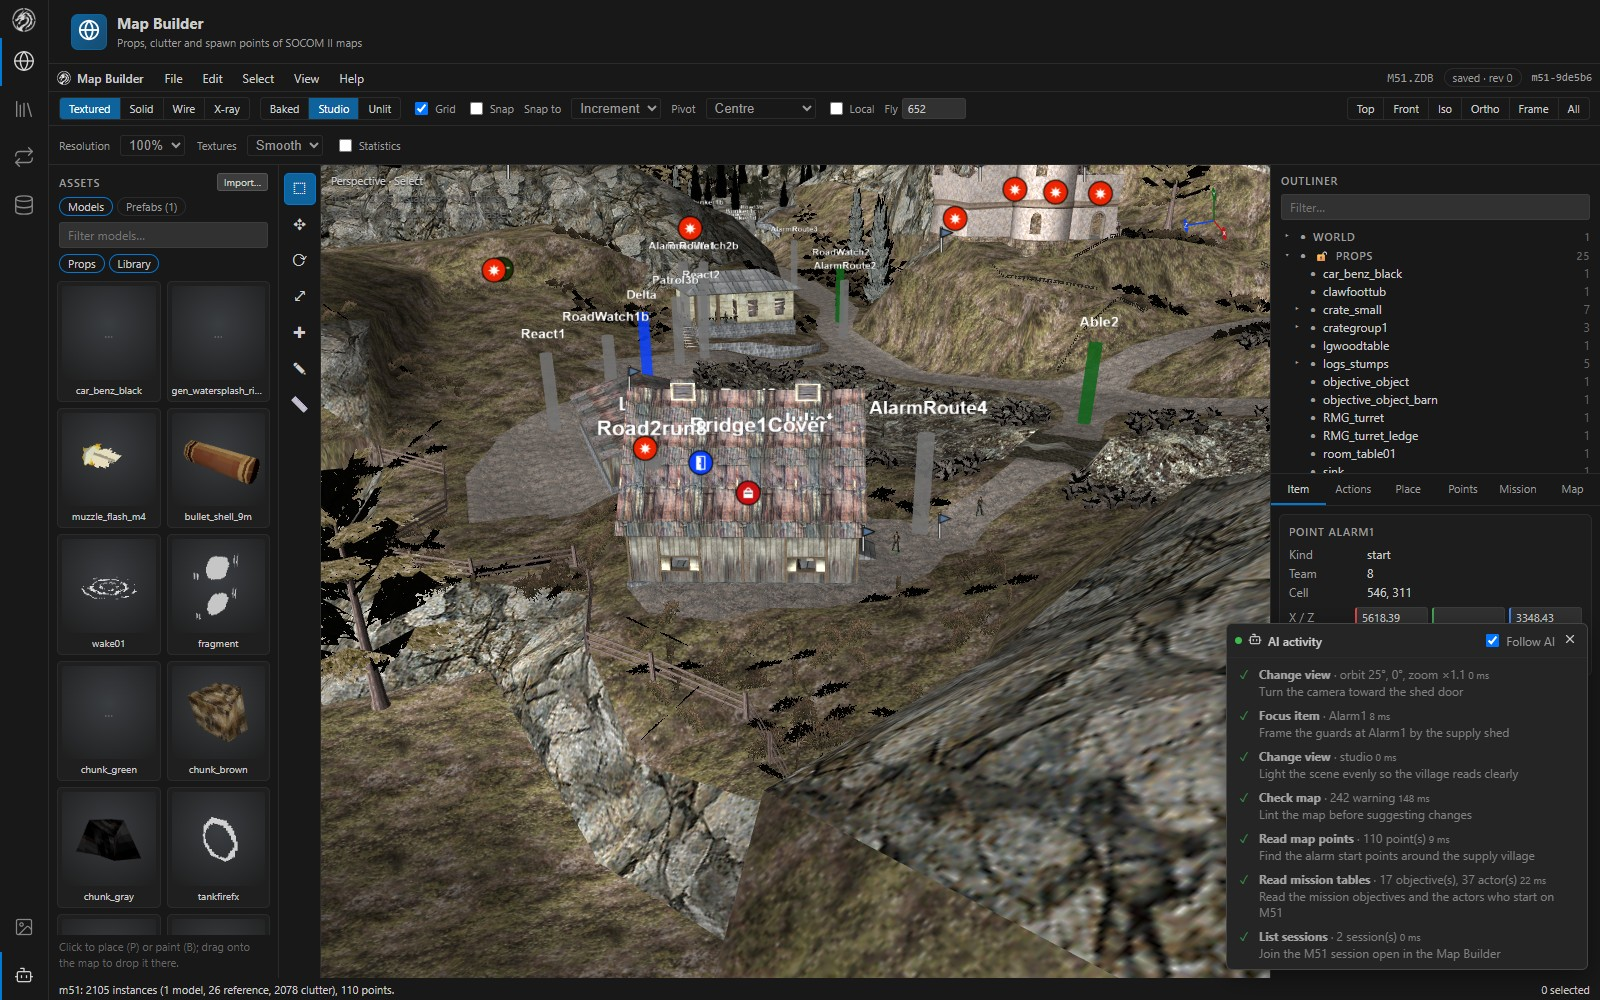
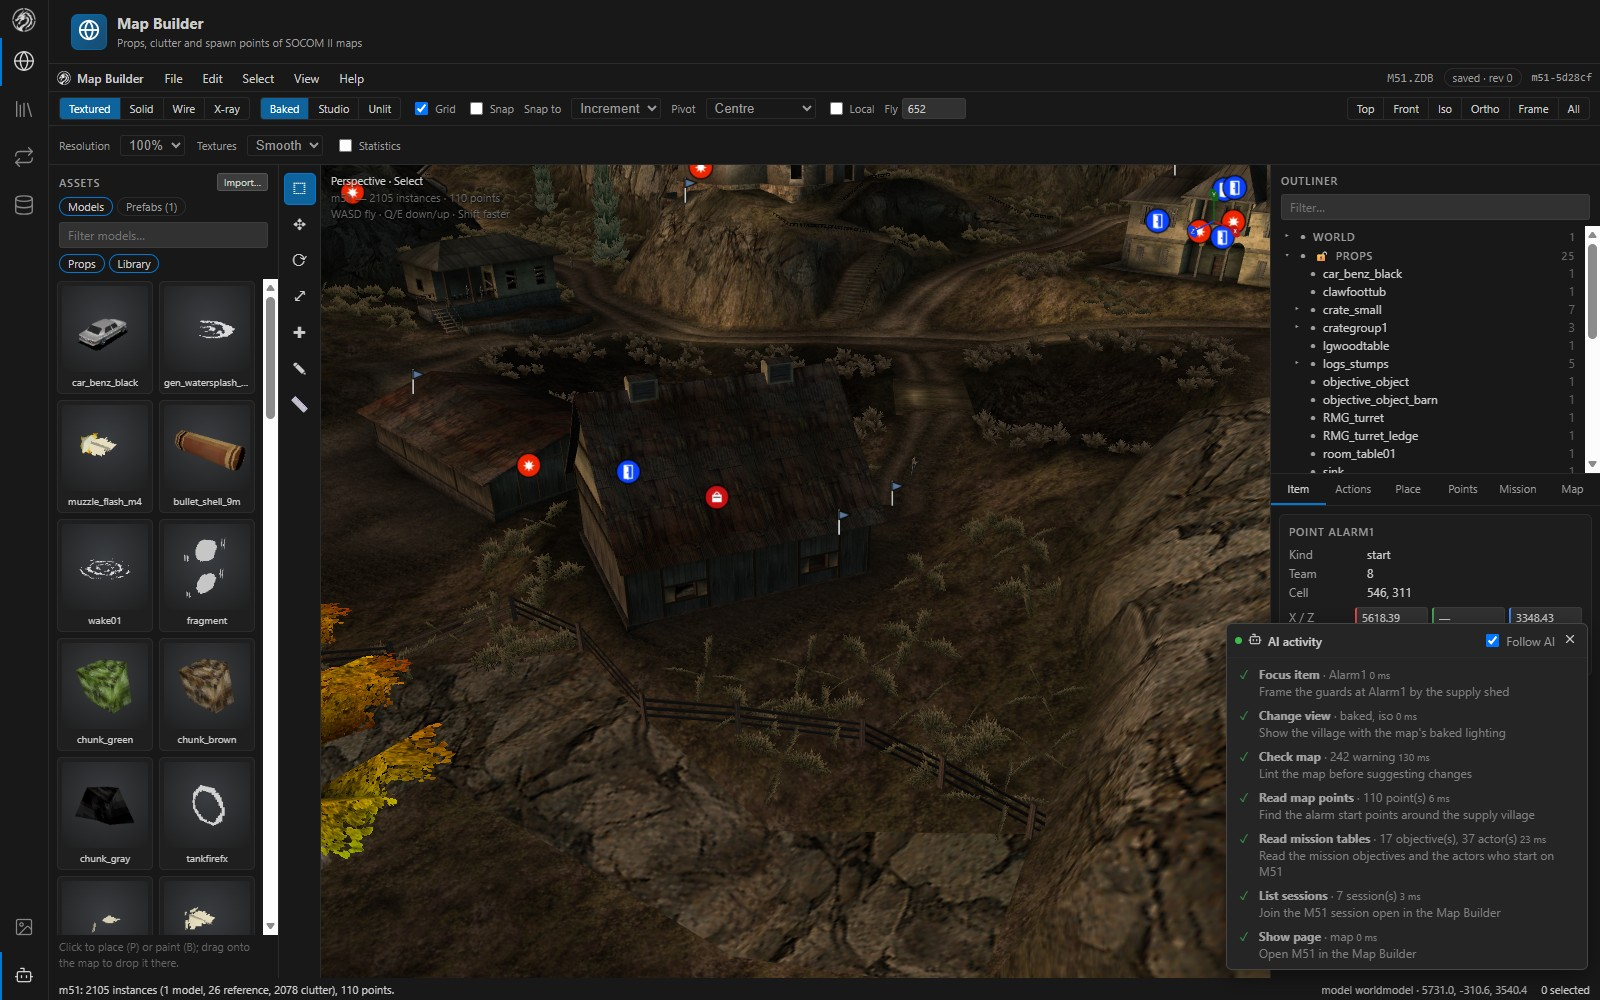
Retake README map screenshots with baked lighting and show the other games
The Map Builder screenshots were taken in Studio lighting; retake them on
M51 with the map's baked lighting. Add an Other games section with a
support table and map shots from Battlefront (Mos Eisley), Combined
Assault and Fireteam Bravo 2, and bring the tagline, feature table and
status notes up to date. List SOCOM 1 in Game support.

diff --git a/README.md b/README.md
@@ -5,7 +5,8 @@
 <h1 align="center">SOCOM Map Builder</h1>
 
 <p align="center">
-  A map, model, texture and animation editor for SOCOM U.S. Navy SEALs II on the PlayStation 2.
+  A map, model, texture and animation editor for SOCOM U.S. Navy SEALs II on the PlayStation 2,<br>
+  with map and model support for SOCOM 1, Combined Assault, Fireteam Bravo 2, GTA: San Andreas and Star Wars: Battlefront.
 </p>
 
 <p align="center">
@@ -19,11 +20,11 @@
 
 Open a SOCOM II package and work across the whole map: its world, props, clutter, characters, weapons, textures, palettes, animations, actions and mission tables. Every page shares one in-memory session per package, so edits made anywhere are undone together and saved together, as a copy of the `.ZDB` / `.CDB` or as a memory-card pack for `mc0:`. A built-in MCP server lets AI assistants read and edit the same sessions while you watch.
 
-<img src="docs/screenshots/map-builder.jpg" alt="Map Builder showing M51 with action icons, objective flags, the HUD minimap and the Mission tab" width="850">
+<img src="docs/screenshots/map-builder.jpg" alt="Map Builder showing M51 in its baked lighting with action icons, objective flags, the HUD minimap and the Mission tab" width="850">
 
 > **Get started:** build the web client, run the server and open `http://127.0.0.1:8770`. See [Getting started](#getting-started).
 >
-> **Status** — SOCOM II is the primary, tested target. Combined Assault supports editing points, actor starts and headings, valves, allowed weapon slots and world placements. Edits save to an archive copy and reopen in the editor. In-game verification is pending. The Model Editor opens the PS2 GTA: San Andreas disc, edits native DFF models, and saves DFF or IMG copies; the Map Builder shows its map area by area and moves its placements. Star Wars: Battlefront models, textures and maps (with command posts, paths and regions) open, and map placements can be moved and saved to `.LVL` or disc copies; its models convert to SOCOM II. See [Game support](docs/game-support.md).
+> **Status** — SOCOM II is the primary, tested target. Five more games open in the same editors, each with map edits that save to copies of their own files or a patched disc image; see [Other games](#other-games) and [Game support](docs/game-support.md).
 
 ## Contents
 
@@ -35,6 +36,7 @@ Open a SOCOM II package and work across the whole map: its world, props, clutter
   - [Animation Editor](#animation-editor)
   - [Asset Viewer](#asset-viewer)
   - [AI-assisted editing](#ai-assisted-editing-with-mcp)
+- [Other games](#other-games)
 - [In game](#in-game)
 - [Getting started](#getting-started)
 - [Documentation](#documentation)
@@ -52,7 +54,9 @@ Open a SOCOM II package and work across the whole map: its world, props, clutter
 | **Textures and palettes** | Replace or create textures and palettes from images, import them from other packages, export PNG |
 | **Animation Editor** | Play and edit character clips, key bones, and fire mounted weapons with their muzzle effects |
 | **Asset Viewer** | Browse a whole disc down to archive records; preview every retail file type, from models and textures to sounds, movies and memory-card icons; edit records in place |
-| **Conversion** | SOCOM II models to SOCOM 3 / Combined Assault; Combined Assault and GTA: San Andreas models to SOCOM II |
+| **Other games** | SOCOM 1, Combined Assault, Fireteam Bravo 2 (PSP), GTA: San Andreas and Star Wars: Battlefront maps drawn and edited in the Map Builder |
+| **Conversion** | SOCOM II models to SOCOM 3 / Combined Assault; Combined Assault, GTA: San Andreas, Battlefront and Fireteam Bravo 2 models to SOCOM II |
+| **Disc images** | Save any game's edits straight into a copy of its `.ISO` |
 | **AI (MCP)** | An MCP server with tools to read, edit, validate and save packages, build weapons and characters, and drive the app's camera |
 | **Safety** | Undo for every edit, copy-on-save with backups, all-or-nothing writes and autosave recovery |
 
@@ -100,7 +104,7 @@ Edit props, vehicles, weapons and skinned characters from whole objects down to 
 
 <img src="docs/screenshots/model-editor-weights.png" alt="The skin weight view on a character" width="850">
 
-**Weapons, textures and conversion.** Import models and textures from other packages, export OBJ (optionally subdivided and rounded), and convert between SOCOM II, SOCOM 3 / Combined Assault and GTA: San Andreas.
+**Weapons, textures and conversion.** Import models and textures from other packages, export OBJ (optionally subdivided and rounded), convert between SOCOM II and SOCOM 3 / Combined Assault, and bring GTA: San Andreas, Battlefront and Fireteam Bravo 2 models into SOCOM II.
 
 <img src="docs/screenshots/model-editor-weapon.png" alt="The M4A1 with M203 in the Model Editor with the Texture tab open" width="850">
 
@@ -138,6 +142,36 @@ claude mcp add --transport http mapbuilder http://127.0.0.1:8770/mcp
 
 **[MCP server guide →](docs/mcp-server.md)**
 
+## Other games
+
+The same Map Builder, Model Editor and Asset Viewer open five more games. Each one's maps draw with their own lighting, and placements move with the same gizmo, undo and save as SOCOM II.
+
+| Game | Map Builder | Model Editor | To SOCOM II |
+|---|---|---|---|
+| **SOCOM U.S. Navy SEALs** | Maps from the disc's folders: world, props and clutter | Map packages open like SOCOM II's | (shared formats) |
+| **SOCOM: Combined Assault** | Locations and missions by name; move points, world objects, actor starts and headings; edit valves and allowed weapons | Models and textures | Models |
+| **SOCOM: Fireteam Bravo 2** (PSP) | The island, props, characters, missions and points; move props, vehicles, trees and points | Characters, weapons, props | Characters, weapons, props |
+| **GTA: San Andreas** (PS2) | The map by area with timed objects and water; place, move, turn and delete placements | DFF models, frames, materials, UVs; save DFF or IMG | Models and character clips |
+| **Star Wars: Battlefront** | All 22 maps with command posts, paths and regions; move props, command posts and vehicle spawns | Soldiers, vehicles, weapons, props | Soldiers, weapons, vehicles, props |
+
+Every game's edits can be saved into a copy of its disc image. Edits outside SOCOM II have not all been tried in game yet; [Game support](docs/game-support.md) lists what has.
+
+<img src="docs/screenshots/swbf-map-tatooine.jpg" alt="Star Wars: Battlefront's Tatooine (Mos Eisley) map in the Map Builder with its baked lighting, paths and command post regions" width="850">
+
+*Star Wars: Battlefront — Mos Eisley, with spawn and AI paths and command post regions.*
+
+<img src="docs/screenshots/ca-map-compound.jpg" alt="A Combined Assault location in the Map Builder with its baked lighting and objective flags" width="850">
+
+*SOCOM: Combined Assault — a city compound with its mission's objective flags.*
+
+<img src="docs/screenshots/ftb2-map-fort.jpg" alt="Fireteam Bravo 2's Fort island in the Map Builder with its baked lighting" width="850">
+
+*SOCOM: Fireteam Bravo 2 (PSP) — the Fort island.*
+
+<img src="docs/screenshots/gta-map-grove-street.png" alt="Grove Street in the Map Builder: CJ's house selected in the cul-de-sac" width="850">
+
+*GTA: San Andreas — Grove Street, with CJ's house selected.*
+
 ## In game
 
 Assets in game:
@@ -158,11 +192,11 @@ Assets in game:
 
 *A character asset from Combined Assault.*
 
-More, including GTA: San Andreas models, in [Game support](docs/game-support.md).
+More, including GTA: San Andreas models and maps, in [Game support](docs/game-support.md).
 
 ## Getting started
 
-**Requirements:** [.NET 8 SDK](https://dotnet.microsoft.com/download/dotnet/8.0), [Node.js](https://nodejs.org/) 20 or later, and your own SOCOM II game files (this repository ships none).
+**Requirements:** [.NET 8 SDK](https://dotnet.microsoft.com/download/dotnet/8.0), [Node.js](https://nodejs.org/) 20 or later, and your own game files: a SOCOM II disc or its `RUN` folder, or any of the other supported games (this repository ships none).
 
 ```bash
 cd web
@@ -199,7 +233,7 @@ Map Builder is actively developed, and support differs by game and asset type.
 - Map, model and animation edits round-trip through save and reopen. Imported models, imported textures and textures made from images render in the editors, but not every combination has been tested in game.
 - **Runtime VRAM is limited.** Large textures or many new textures may exceed what a map can use in game.
 - An imported character can appear correctly in the editors, but spawning it in a mission also needs the relevant character records.
-- SOCOM 3 and Combined Assault workflows vary by format and feature. GTA: San Andreas models convert to SOCOM II packs. Fireteam Bravo 2 (PSP) maps, models and textures open read-only; the other two Fireteam Bravo games have not been tested.
+- **Other games:** SOCOM 3 and Combined Assault workflows vary by format and feature; Combined Assault edits are not yet verified in game. GTA: San Andreas edits have booted on a patched disc. Battlefront and Fireteam Bravo 2 map edits keep file sizes (props cannot be added or deleted yet) and have not been tried in game, and their animations are not converted yet. SOCOM 1 saves are untested, and the other two Fireteam Bravo games have not been tried.
 - This repository does not include game assets, or the CodeDesigner runtime source used to inject map items and launch new maps.
 
 ## Related projects

diff --git a/docs/game-support.md b/docs/game-support.md
@@ -5,6 +5,7 @@ SOCOM U.S. Navy SEALs II is the primary target. Combined Assault also supports s
 | Game | Open | Edit | Convert |
 |---|---|---|---|
 | **SOCOM U.S. Navy SEALs II** | Packages (`.ZDB`, `.CDB`), loose `.ZED` / `.ZAR`, unpacked folders, the disc | Maps, models, textures, palettes, animations, mission tables and disc records | To SOCOM 3 / Combined Assault |
+| **SOCOM U.S. Navy SEALs** | Map folders on the disc (`RUN\MP\MP1`, `RUN\SP\M5`): world, props and clutter | As SOCOM II packages; saves untested in game. [Disc layout](formats/socom1.md) | — |
 | **SOCOM: Combined Assault** | Location archives by name, missions, world, actors, loadouts and named objective areas | Points, actor starts and headings, valve start values, allowed weapon slots and world placements. Save to a copy. | Models to SOCOM II |
 | **SOCOM 3** | Compatible asset archives | Map edits verified on the Combined Assault disc only | Compatible models to SOCOM II |
 | **Grand Theft Auto: San Andreas (PS2)** | Mounted disc, ISO, IMG or DFF; the map by area | Frame positions, geometry transforms and material properties; move and turn map placements. Save DFF, IMG or IPL copies, or a patched `.ISO`. | Models and selected character clips to SOCOM II |
